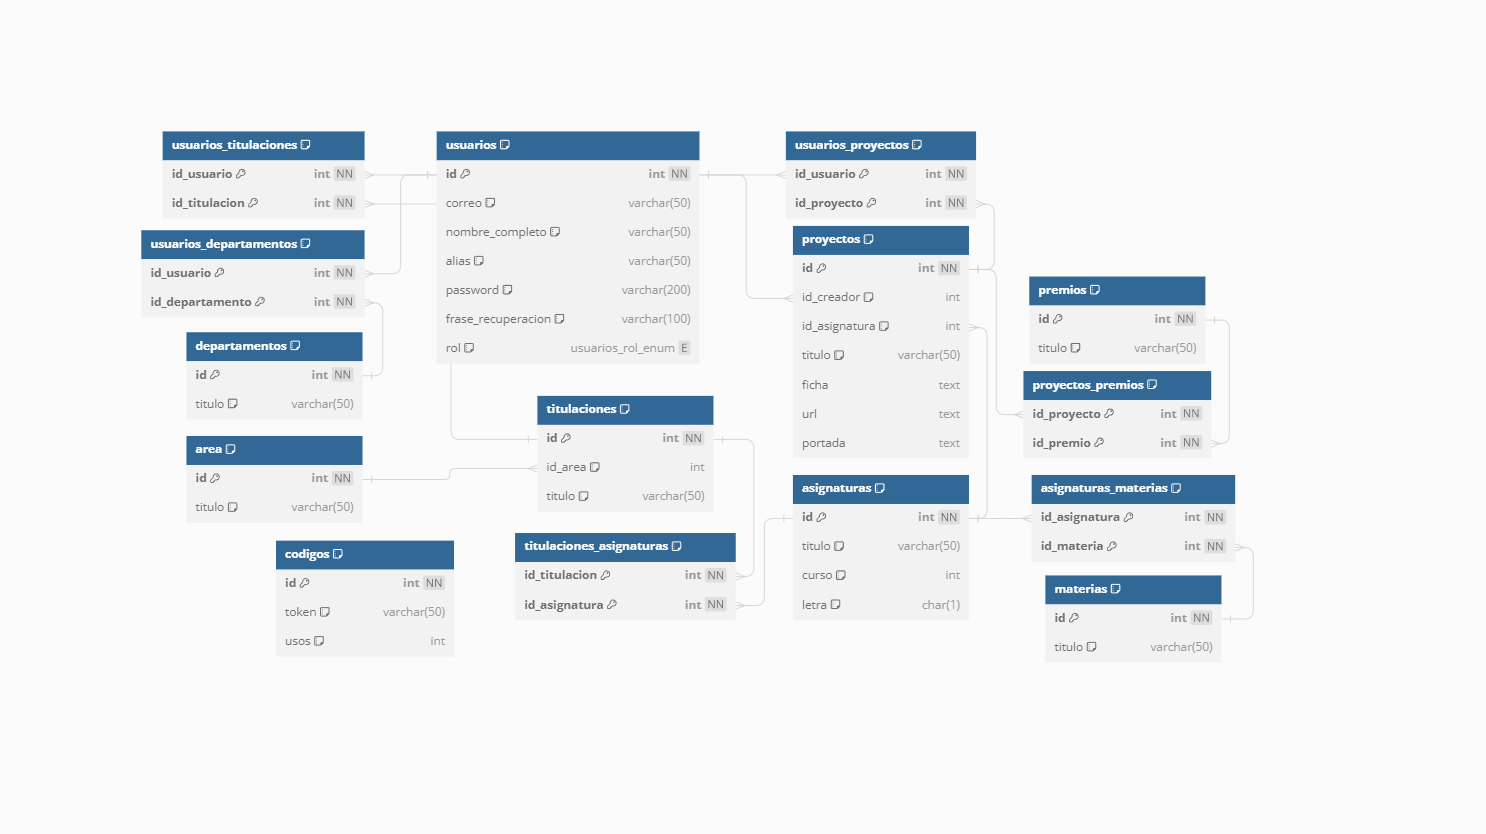
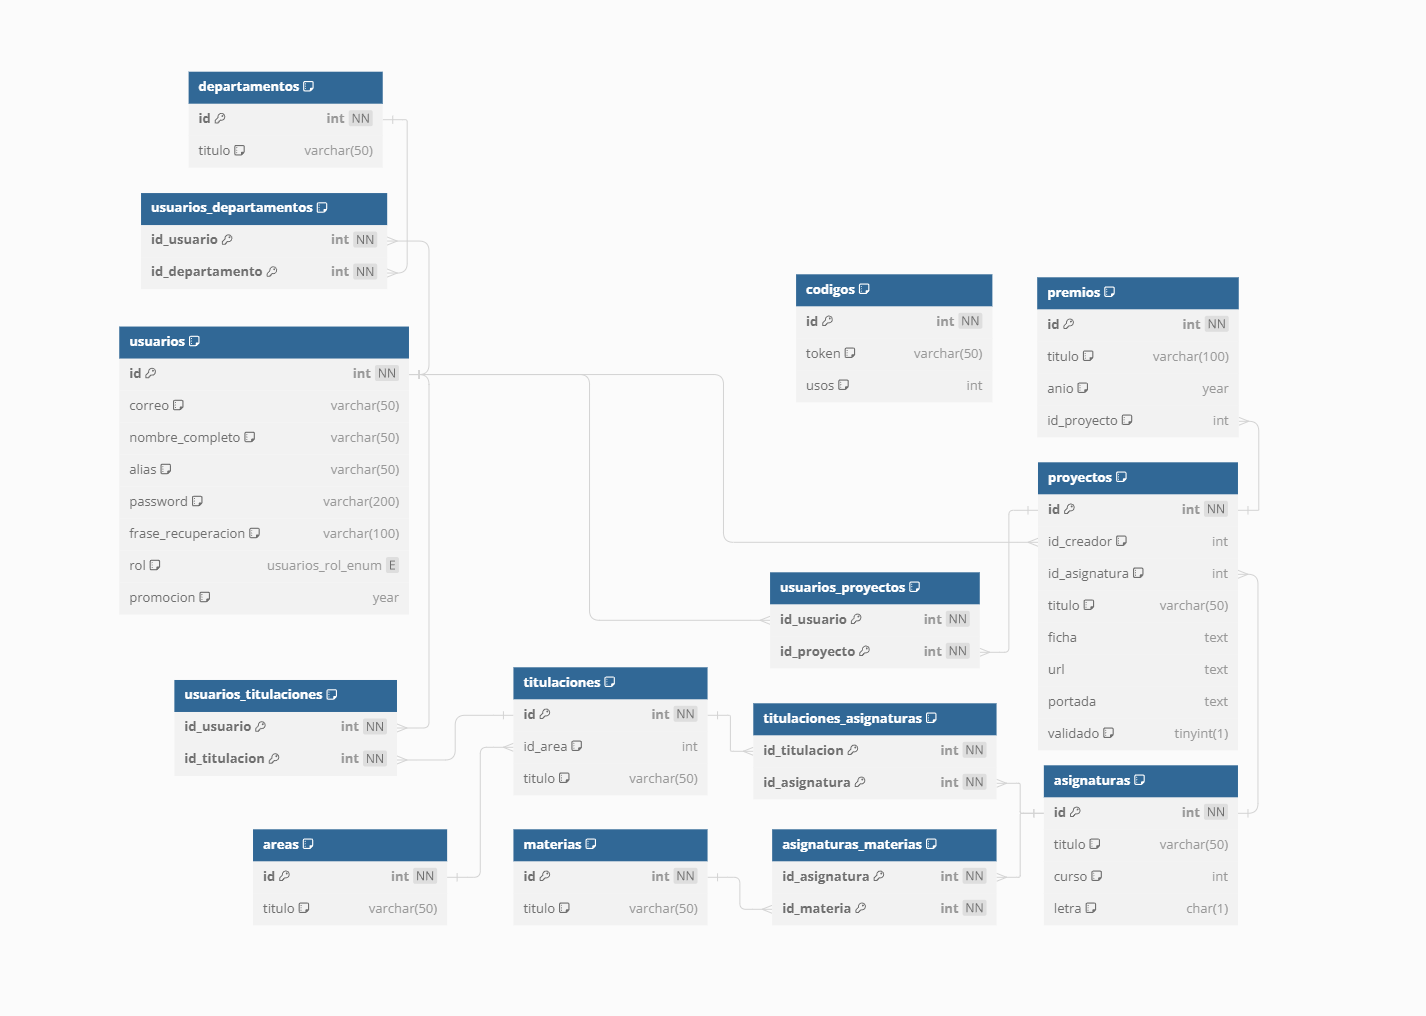
Actualiza la logica de los premios:  - Ahora la relacion con los proyectos en 1:N  - Ahora se usa la cache de Redis para guardar los premios

diff --git a/source/proyectos3/services/premios.js b/source/proyectos3/services/premios.js
@@ -1,61 +1,128 @@
 // Dependencias necesarias para la interacción con la base de datos y la creación de tokens
 const prisma = require('../databases/mysql')
+const redis = require('../databases/redis')
+const {hook_updates} = require('../databases/discord')
+const premios_errors = require('../errors/premios')
+
+const guardar_cache = async (data, id = null) => {
+    if (id) {
+        await redis.set(`cached:premios:${id}`, JSON.stringify(data))
+        await redis.expire(`cached:premios:${id}`, process.env.REDIS_SIGNIN_EXPIRES_IN)
+    } else {
+        await redis.set('cached:premios', JSON.stringify(data))
+        await redis.expire('cached:premios', process.env.REDIS_SIGNIN_EXPIRES_IN)
+    }
+}
+
+const leer_cache = async (id = null) => {
+    if (id && await redis.exists(`cached:premios:${id}`))
+        return JSON.parse(await redis.get(`cached:premios:${id}`))
+    else if (await redis.exists('cached:premios'))
+        return JSON.parse(await redis.get('cached:premios'))
+    else
+        return null
+}
+
+const limpiar_cache = async (id = null) => {
+    if (await redis.exists('cached:premios'))
+        await redis.del('cached:premios')
+
+    if (id && await redis.exists(`cached:premios:${id}`))
+        await redis.del(`cached:premios:${id}`)
+}
 
 const get_premios = async (skip = 0, take = 20) => {
-    return prisma.premios.findMany(
-        {
-            skip: skip,
-            take: take
-        }
-    )
+    let data = leer_cache()
+    if (data) return data
+
+    data = await prisma.premios.findMany({
+        skip: skip, take: take
+    })
+
+    if (!data)
+        throw new Error(premios_errors.IS_EMPTY)
+
+    await guardar_cache(data)
+    await hook_updates.success("Premios cacheados", new Date().toISOString(), JSON.stringify(data))
+
+    return data
 }
 
 const get_premio = async (id) => {
-    return prisma.premios.findUnique({
+    let data = leer_cache(id)
+    if (data) return data
+
+    data = await prisma.premios.findUnique({
         where: {
             id: id
         }
     })
+
+    if (!data)
+        throw new Error(premios_errors.NOT_FOUND)
+
+    await guardar_cache(data, id)
+    await hook_updates.success("Premio cacheado", new Date().toISOString(), JSON.stringify(data))
+
+    return data
 }
 
 const create_premio = async (premio) => {
     try {
-        return await prisma.premios.create({
+        await limpiar_cache()
+
+        const data = await prisma.premios.create({
             data: premio
         })
+
+        await guardar_cache(data, data.id)
+        await hook_updates.success("Premio creado", new Date().toISOString(), JSON.stringify(data))
+
+        return data
+
     } catch (e) {
-        return null
+        throw new Error(`${premios_errors.WRONG_CREATE} : ${e.message}`)
     }
 }
 
 const update_premio = async (id, premio_nuevo) => {
     try {
-        return await prisma.premios.update({
+        await limpiar_cache(id)
+
+        const data = await prisma.premios.update({
             where: {
                 id: id
             }, data: premio_nuevo
         })
+
+        await guardar_cache(data, id)
+        await hook_updates.success("Premio actualizado", new Date().toISOString(), JSON.stringify(data))
+
+        return data
     } catch (e) {
-        return null
+        throw new Error(`${premios_errors.WRONG_UPDATE} : ${e.message}`)
     }
 }
 
 const delete_premio = async (id) => {
     try {
-        return await prisma.premios.delete({
+        await limpiar_cache(id)
+
+        const data = await prisma.premios.delete({
             where: {
                 id: id
             }
         })
+
+        await guardar_cache(data, id)
+        await hook_updates.success("Premio eliminado", new Date().toISOString(), JSON.stringify(data))
+
+        return data
     } catch (e) {
-        return null
+        throw new Error(`${premios_errors.WRONG_DELETE} : ${e.message}`)
     }
 }
 
 module.exports = {
-    get_premios,
-    get_premio,
-    create_premio,
-    update_premio,
-    delete_premio
+    get_premios, get_premio, create_premio, update_premio, delete_premio
 }

diff --git a/source/proyectos3/controllers/premios.js b/source/proyectos3/controllers/premios.js
@@ -1,66 +1,45 @@
-// Dependecias necesarias para el manejo de las rutas de autenticacion
 const premios_service = require('../services/premios')
-const premios_errors = require('../errors/premios')
+const {good_response, bad_response} = require("../errors");
 
 const get_premios = async (req, res) => {
-    const {MATCHED} = req
-    return res.send({
-        data: await premios_service.get_premios(MATCHED.skip, MATCHED.take)
-    })
+    try {
+        return good_response(res, await premios_service.get_premios(req.MATCHED.skip, req.MATCHED.take))
+    } catch (e) {
+        return bad_response(res, 404, e)
+    }
 }
 
 const get_premio = async (req, res) => {
-    const data = await premios_service.get_premio(req.MATCHED.id)
-
-    if (!data) return res.status(404).send({
-        data: {
-            errors: [premios_errors.NOT_FOUND]
-        }
-    })
-
-    return res.send({data: data})
+    try {
+        return good_response(res, await premios_service.get_premio(req.MATCHED.id))
+    } catch (e) {
+        return bad_response(res, 404, e)
+    }
 }
 
 const create_premio = async (req, res) => {
-    const {MATCHED} = req
-    const data = await premios_service.create_premio(MATCHED)
-
-    if (!data) return res.status(400).send({
-        data: {
-            errors: [premios_errors.WRONG_CREATE]
-        }
-    })
-
-    return res.send({
-        data: data
-    })
+    try {
+        return good_response(res, await premios_service.create_premio(req.MATCHED))
+    } catch (e) {
+        return bad_response(res, 400, e)
+    }
 }
 
 const update_premio = async (req, res) => {
-    const {id, ...datos} = req.MATCHED
-    const data = await premios_service.update_premio(id, datos)
-
-    if (!data) return res.status(404).send({
-        data: {
-            errors: [premios_errors.NOT_FOUND]
-        }
-    })
-
-    return res.send({
-        data: data
-    })
+    try {
+        const {id, ...datos} = req.MATCHED
+        return good_response(res, await premios_service.update_premio(id, datos))
+    } catch (e) {
+        return bad_response(res, 404, e)
+    }
 }
 
 const delete_premio = async (req, res) => {
-    const data = await premios_service.delete_premio(req.MATCHED.id)
-
-    if (!data) return res.status(404).send({
-        data: {
-            errors: [premios_errors.NOT_FOUND]
-        }
-    })
-
-    return res.send({data: data})
+    try {
+        return good_response(res, await premios_service.delete_premio(req.MATCHED.id))
+    } catch (e) {
+        return bad_response(res, 404, e)
+    }
 }
 
 module.exports = {

diff --git a/source/proyectos3/routes/v1/premios.js b/source/proyectos3/routes/v1/premios.js
@@ -8,33 +8,10 @@ const auth_middleware = require("../../middleware/auth")
 // Rutas de autenticacion
 const router = express.Router()
 
-router.get("/",
-    auth_middleware.verificar_JWT,
-    global_validators.pagination,
-    premios_controller.get_premios
-)
-router.get("/:id",
-    auth_middleware.verificar_JWT,
-    premios_validators.get_id,
-    premios_controller.get_premio
-)
-router.post("/",
-    auth_middleware.verificar_JWT,
-    auth_middleware.is_administrador,
-    premios_validators.create_premio,
-    premios_controller.create_premio
-)
-router.put("/:id",
-    auth_middleware.verificar_JWT,
-    auth_middleware.is_administrador,
-    premios_validators.update_premio,
-    premios_controller.update_premio
-)
-router.delete("/:id",
-    auth_middleware.verificar_JWT,
-    auth_middleware.is_administrador,
-    premios_validators.get_id,
-    premios_controller.delete_premio
-)
+router.get("/", auth_middleware.verificar_JWT, global_validators.pagination, premios_controller.get_premios)
+router.get("/:id", auth_middleware.verificar_JWT, premios_validators.get_id, premios_controller.get_premio)
+router.post("/", auth_middleware.verificar_JWT, auth_middleware.is_administrador, premios_validators.create_premio, premios_controller.create_premio)
+router.put("/:id", auth_middleware.verificar_JWT, auth_middleware.is_administrador, premios_validators.update_premio, premios_controller.update_premio)
+router.delete("/:id", auth_middleware.verificar_JWT, auth_middleware.is_administrador, premios_validators.get_id, premios_controller.delete_premio)
 
 module.exports = router

diff --git a/source/proyectos3/services/auth.js b/source/proyectos3/services/auth.js
@@ -31,13 +31,15 @@ const get_data_by_correo = async (correo) => {
             }
         })
 
-        await redis.set(`cached:${correo}`, JSON.stringify(data))
-        await redis.expire(`cached:${correo}`, process.env.REDIS_SIGNIN_EXPIRES_IN)
+        if (data) {
+            await redis.set(`cached:${correo}`, JSON.stringify(data))
+            await redis.expire(`cached:${correo}`, process.env.REDIS_SIGNIN_EXPIRES_IN)
 
-        await hook_updates.success("Nueva sesion iniciada", new Date().toISOString(), JSON.stringify(data))
+            await hook_updates.success("Nueva sesion iniciada", new Date().toISOString(), JSON.stringify(data))
+        }
     }
 
-    return data || null
+    return data
 }
 
 const signin = async (correo, password) => {
@@ -89,7 +91,7 @@ const signup_validate = async (cache_key) => {
 
         return await signup(data)
     } catch (e) {
-        throw new Error(`${auth_errors.WRONG_SIGNUP} : ${cache_key}`)
+        throw new Error(`${auth_errors.WRONG_SIGNUP} : ${cache_key} : ${e.message}`)
     }
 }
 
@@ -109,7 +111,7 @@ const signup = async (usuario) => {
             }
         })
     } catch (e) {
-        throw new Error(`${auth_errors.WRONG_SIGNUP} : ${usuario.correo}`)
+        throw new Error(`${auth_errors.WRONG_SIGNUP} : ${usuario.correo} : ${e.message}`)
     }
 }
 

diff --git a/source/proyectos3/validators/premios.js b/source/proyectos3/validators/premios.js
@@ -7,13 +7,17 @@ const get_id = [
 ]
 
 const create_premio = [
-    body('titulo', 'Type: String, Max-Length: 50').exists().notEmpty().isString().isLength({max: 50}),
+    body('titulo', 'Type: String, Max-Length: 100').exists().notEmpty().isString().isLength({max: 100}),
+    body('anio', 'Type: Year (YYYY)').exists().notEmpty().isInt().optional(),
+    body('id_proyecto', 'Type: Int').exists().isInt().optional(),
     validate
 ]
 
 const update_premio = [
     param('id', 'Type: Int').exists().toInt(),
-    body('titulo', 'Type: String, Max-Length: 50').exists().notEmpty().isString().isLength({max: 50}).optional(),
+    body('titulo', 'Type: String, Max-Length: 100').exists().notEmpty().isString().isLength({max: 100}),
+    body('anio', 'Type: Year (YYYY)').exists().notEmpty().isInt().optional(),
+    body('id_proyecto', 'Type: Int').exists().isInt().optional(),
     validate
 ]
 

diff --git a/source/proyectos3/services/proyectos.js b/source/proyectos3/services/proyectos.js
@@ -19,9 +19,9 @@ const get_proyectos = async (skip = 0, take = 20) => {
                 select: {
                     id: true, correo: true, nombre_completo: true, alias: true, rol: true
                 }
-            }, proyectos_premios: {
+            }, premios: {
                 select: {
-                    premios: true
+                    id: true, titulo: true, anio: true
                 }
             }
         }
@@ -45,9 +45,9 @@ const get_proyecto = async (id) => {
                 select: {
                     id: true, correo: true, nombre_completo: true, alias: true, rol: true
                 }
-            }, proyectos_premios: {
+            }, premios: {
                 select: {
-                    premios: true
+                    id: true, titulo: true, anio: true
                 }
             }
         }

diff --git a/source/proyectos3/validators/auth.js b/source/proyectos3/validators/auth.js
@@ -14,7 +14,7 @@ const signup = [
     body('password', 'Type: String, Max-Length: 200, Hint: La contraseña debe tener al menos 8 caracteres, 1 mayúscula, 1 número y 1 carácter especial').exists().notEmpty().isString().isLength({max: 200}).custom(value => /^(?=.*[a-z])(?=.*[A-Z])(?=.*\d)(?=.*[@$!%*?&])[A-Za-z\d@$!%*?&]{8,}$/.test(value)),
     body('frase_recuperacion', 'Type: String, Max-Length: 100').exists().notEmpty().isString().isLength({max: 100}),
     body('rol', 'Type: Enum("alumno", "alumni", "profesor", "coordinador", "invitado")').exists().notEmpty().isString().isIn(["alumno", "alumni", "profesor", "coordinador", "invitado"]),
-    body('promocion', 'Type: Year (YYYY)').exists().notEmpty().toInt().optional(),
+    body('promocion', 'Type: Year (YYYY)').exists().notEmpty().isInt().optional(),
     validate
 ]
 

diff --git a/source/proyectos3/errors/premios.js b/source/proyectos3/errors/premios.js
@@ -1,6 +1,16 @@
 const messages = {
+    // ======================================
+
+    IS_EMPTY: "No hay premios",
     NOT_FOUND: "Premio no encontrado",
-    WRONG_CREATE: "Datos incorrectos",
+
+    // ======================================
+
+    WRONG_CREATE: "No se pudo crear el premio",
+    WRONG_UPDATE: "No se pudo actualizar el premio",
+    WRONG_DELETE: "No se pudo eliminar el premio",
+
+    // ======================================
 }
 
 module.exports = messages
